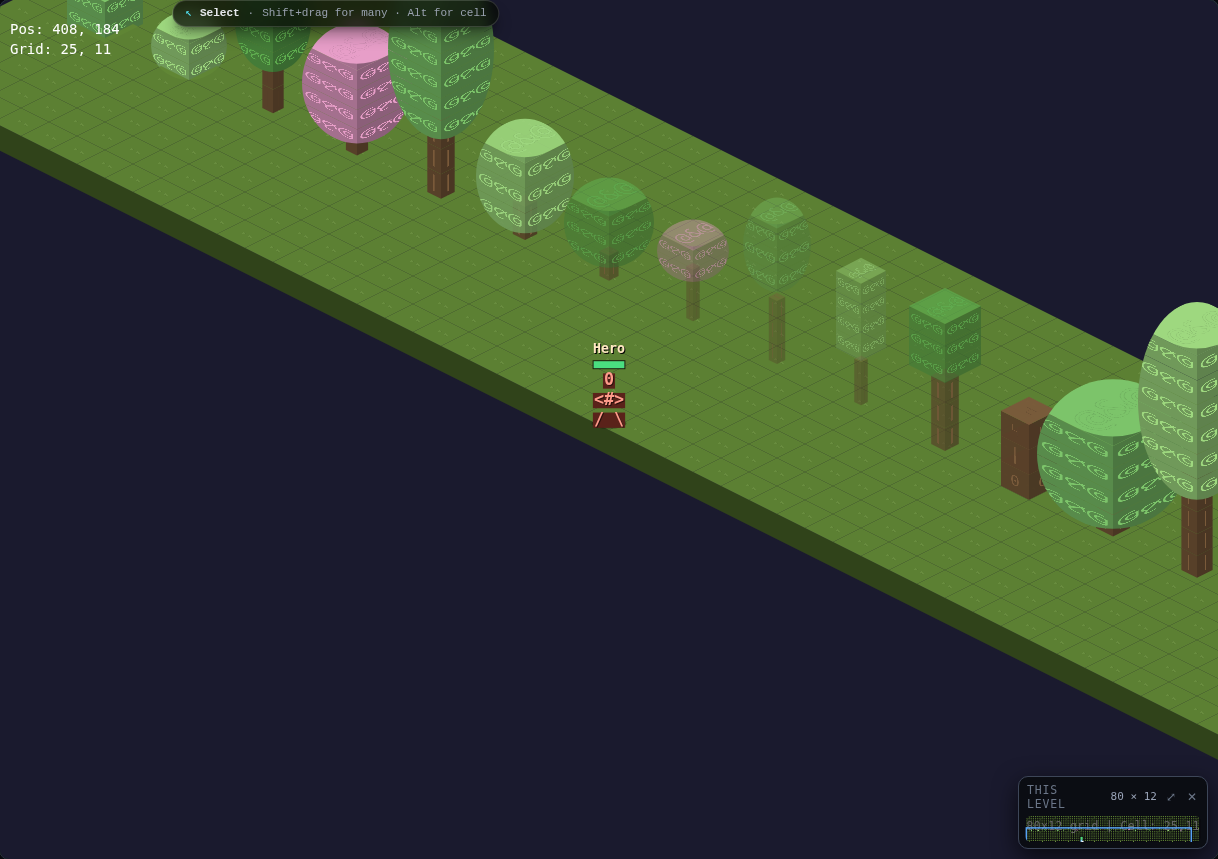
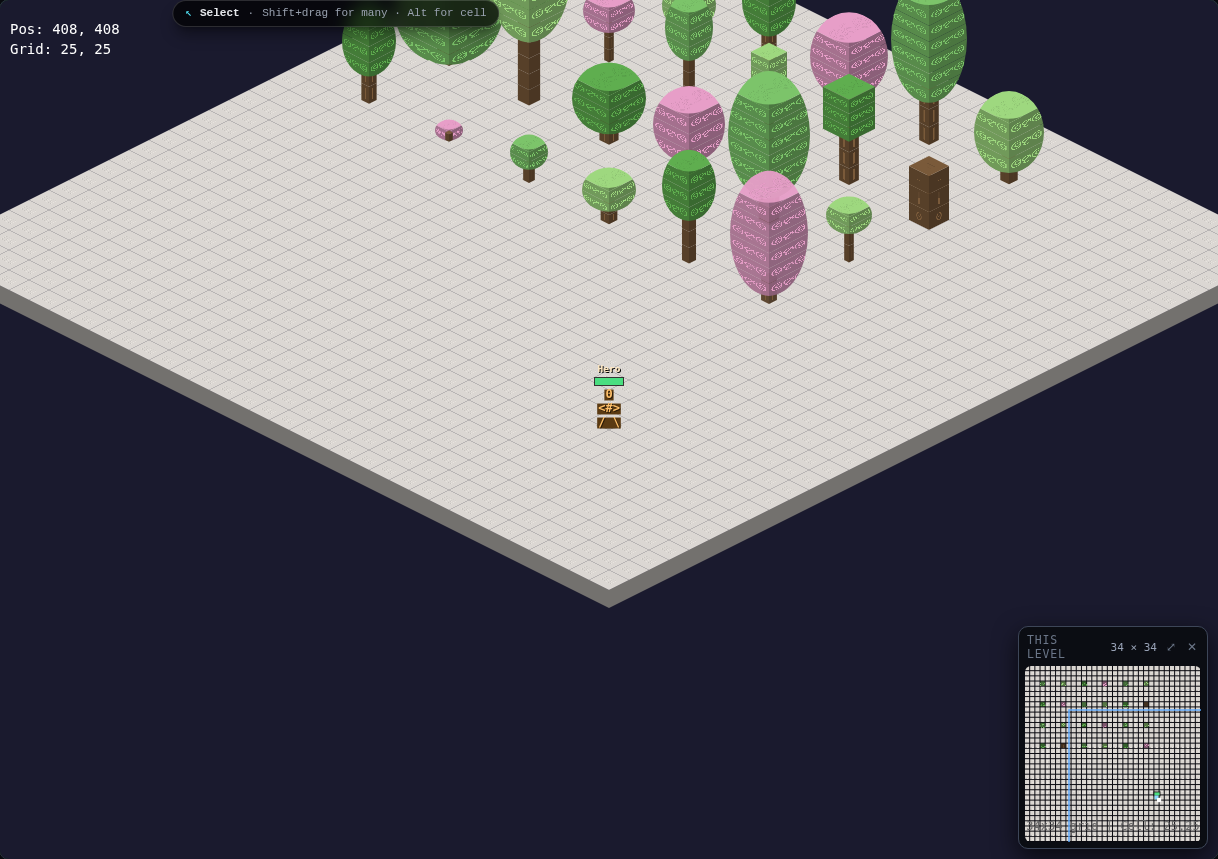
fix: name a selected tile by its label, and the tools that would have caught the rest
THE SELECTOR. The inspector titled a selection with `assetKind`, which answers a different
question: it maps a tile to a coarse art-routing kind so the emoji style knows which
picture to reach for, and it returns the literal string `ground` for every autotile PIECE
and material tile by design. So a trunk, a wall, a window and a roof all read
"CELL - GROUND". A tile's identity is its LABEL, the same one the save writes and the
engine resolves art by.

THE TREE SHEET, and what it found. `bin/e2e treeSheet` stamps every species the catalogue
serves and measures each crown against its own trunk. Its oracle was wrong three times
before it was right, and each way it was wrong is worth keeping:

  it computed `level + pose.dy` and compared that to the trunk top, which is how the lift
  is DEFINED, so the two sides could never disagree. It reported 0.000 for every species
  on a sheet where crowns were visibly floating.

  it read PIXELS and told a canopy from a lawn by hue, and both are green, so the crown's
  "lowest pixel" was the grass under the tree. Twice: once on the sheet and again on a
  generated woodland.

  it scanned the whole screen column, so a bush reported a trunk and four species reported
  each other's numbers.

It now reads `__nebulithDrawn`, the geometry the renderer RECORDS as it draws and the
selector hit-tests against. It IS the draw, so it needs no colour guessing and cannot
drift from what was painted.
[…]

diff --git a/assets/game/routes/templates.tsx b/assets/game/routes/templates.tsx
@@ -6519,11 +6519,22 @@ function TemplateEditor({ gameContext }: { gameContext?: EditorGameContext } = {
                           const i = lvl
                           const a0 = stackedAssetsAt(grid, fc.col, fc.row)[i]
                           const kind = a0 ? assetKind(a0) : (stack[lvl]?.slug || `tile ${lvl}`)
+                          // WHAT THE TILE IS, which is not the same question as which art bucket it draws
+                          // from. `assetKind` answers the second: it maps a tile to a coarse ElementKind so
+                          // the emoji style knows what picture to reach for, and every autotile PIECE and
+                          // material tile answers `ground` there by design. Naming the selection with it
+                          // meant a trunk, a wall, a roof and a window all read "CELL - GROUND".
+                          //
+                          // A tile's identity is its LABEL, the same one the save writes and the engine
+                          // resolves art by. One identity, not a second vocabulary to translate back.
+                          const tileName = a0
+                            ? (a0.label ?? a0.tileKey ?? a0.type)
+                            : (stack[lvl]?.slug || `tile ${lvl}`)
                           const posable = !!a0
                           const isFloorTile = a0?.type === FLOOR_TYPE
                           tile = {
                             key: `tile-${i}`,
-                            label: kind,
+                            label: tileName,
                             dims: {
                               width: adim(i, a => a.width ?? 1),
                               height: adim(i, a => blockHeightOf(a)), // the tile's real BLOCK-HEIGHT (0.1 flat, 1 wall, …), not the scaleY multiplier

diff --git a/assets/game/engine/render/iso.ts b/assets/game/engine/render/iso.ts
@@ -565,6 +565,13 @@ export function render(params: IsoRenderParams) {
   // QA seam beside `__nebulithGrid`: the frame's cell->pixel projection and its tile size. A probe that finds
   // an undrawn pixel can then name the CELL responsible instead of guessing from the picture.
   ;(globalThis as unknown as { __nebulithProject?: unknown }).__nebulithProject = { toScreen, tileW, tileH, heightStep }
+  // …AND WHAT WAS ACTUALLY DRAWN, which is already recorded for the picker.
+  //
+  // A probe that reads PIXELS has to tell a canopy from a lawn by hue, and both are green: measured, a
+  // crown's "lowest pixel" came back as the grass under the tree and a floating canopy reported a
+  // healthy overlap. This is the draw's own geometry, the same list the selector hit-tests against, so
+  // it can never drift from what was drawn and needs no colour guessing at all.
+  ;(globalThis as unknown as { __nebulithDrawn?: unknown }).__nebulithDrawn = isoTileHits
 
   // ─── GROUND: nothing special here anymore ──────────────────────────
   // Floors are ordinary level-0 tiles in grid.assets (thin colored slabs), they flow through the SAME
